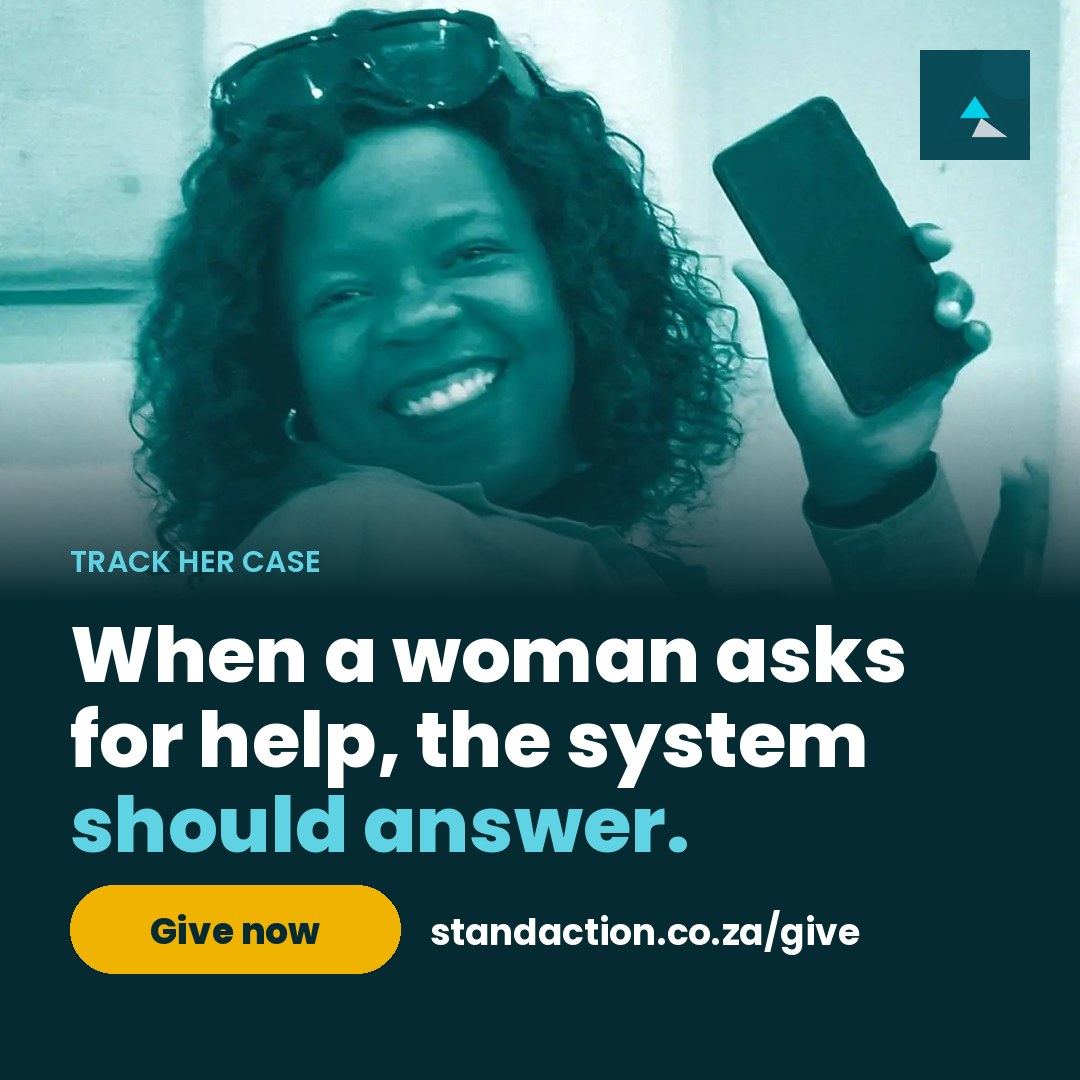
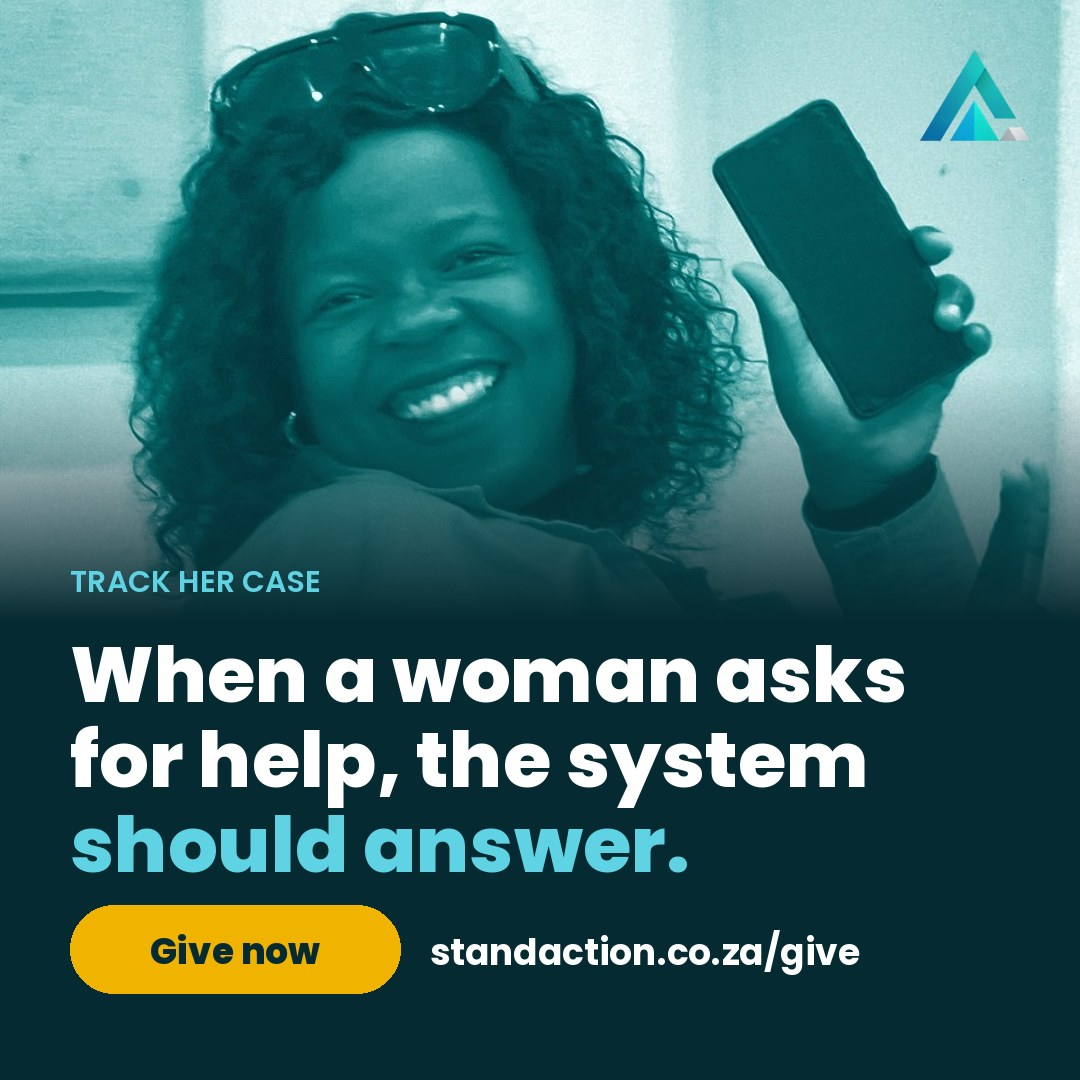
Original ambassador photo, Julie's LinkedIn, HRI publication links
Claude-Session: https://claude.ai/code/session_016iGbTjdTXZU6fLHWU7LUBG

diff --git a/founder.html b/founder.html
@@ -139,7 +139,7 @@
           <li class="reveal"><span class="kicker">Aug 2025 to Aug 2026 · Programme Lead, STAND / DG Murray Trust</span><h3>Breaking the Cycle: gender-based violence (GBV) systems design and the Red Dot Process</h3><p>Designed the Red Dot Process, a seven-stage, privacy-conscious GBV track-and-trace workflow on Overstrand Municipality's Citizen App. The GBV function went live on 24 August 2026; the first incident was dispatched to law enforcement on 27 August. Convened statutory partners through the Western Cape Violence Prevention Unit, which signed off the workflow, and embedded a community layer of 31 trained GBV ambassadors.</p></li>
           <li class="reveal"><span class="kicker">2025 to 2026 · Senior Technical Specialist and Advocacy Lead</span><h3>Pregnancy and Substance Use Toolkit, national advocacy (EJAF / JMD Consulting &amp; Training / SANPUD)</h3><p>Led district-to-national advocacy to position a practical, rights-based clinical toolkit for pregnant women affected by substance use within South African maternal and primary healthcare systems. The work was supported by the Elton John AIDS Foundation (EJAF), with the grant channelled through SANPUD, and delivered with JMD Consulting &amp; Training. Authored the final advocacy report, <em>From Field Evidence to National Endorsement</em>, and secured formal written support from the National Department of Health in June 2026, conditional on defined revisions. The Western Cape confirmed routes to incorporate the content into antenatal and community health-worker training.</p></li>
           <li class="reveal"><span class="kicker">Mar 2025 · Key Facilitator and Technical Consultant</span><h3>INTERPOL Regional Bureau for Southern Africa / SARPCCO</h3><p>Key facilitator at the first regional Gender and Harm Reduction Workshop, convened with SARPCCO (the Southern African Regional Police Chiefs Cooperation Organisation), with representatives from 11 SADC member states. Developed evidence-informed policing modules and co-authored the report setting out ten regional recommendations, recognised with a formal Letter of Appreciation from the Head of the INTERPOL Regional Bureau / SARPCCO Coordination Office.</p></li>
-          <li class="reveal"><span class="kicker">Jul 2025 to Aug 2026 · Consultant and Lead African Consultant</span><h3>Harm Reduction International, Breaking Point and the Divest/Invest series</h3><p>Led the South Africa country rapid assessment of the impact of donor-funding withdrawal (34 key-informant interviews, 128 desk reviews and a national dialogue) and authored <em>Breaking Point: The Impact of US Funding Cuts on Harm Reduction in South Africa</em>. As Lead African Consultant for the Divest/Invest case-study series, authored three published country studies: South Africa (on the Community Oriented Substance Use Programme, COSUP), Mauritius, and Ghana.</p></li>
+          <li class="reveal"><span class="kicker">Jul 2025 to Aug 2026 · Consultant and Lead African Consultant</span><h3>Harm Reduction International, Breaking Point and the Divest/Invest series</h3><p>Led the South Africa country rapid assessment of the impact of donor-funding withdrawal (34 key-informant interviews, 128 desk reviews and a national dialogue) and authored <a href="https://hri.global/publications/breaking-point-the-impact-of-us-funding-cuts-on-harm-reduction-in-south-africa/" target="_blank" rel="noopener"><em>Breaking Point: The Impact of US Funding Cuts on Harm Reduction in South Africa</em></a>. As Lead African Consultant for the Divest/Invest case-study series, authored three published country studies: <a href="https://hri.global/publications/divest-invest-case-study-south-africa-from-punishment-to-public-health/" target="_blank" rel="noopener">South Africa</a> (on the Community Oriented Substance Use Programme, COSUP), <a href="https://hri.global/publications/divest-invest-case-study-mauritius-divest-from-crisis-invest-in-care/" target="_blank" rel="noopener">Mauritius</a>, and <a href="https://hri.global/publications/divest-invest-case-study-ghana-from-criminalisation-to-care-ghana-at-a-crossroads/" target="_blank" rel="noopener">Ghana</a>.</p></li>
         </ol>
       </div>
     </section>

diff --git a/work.html b/work.html
@@ -211,7 +211,7 @@
           <article class="cap reveal" id="writing" aria-labelledby="writing-title">
             <img src="assets/art/icon-notes.svg" alt="" aria-hidden="true">
             <h3 id="writing-title">Policy drafting and technical writing</h3>
-            <p>Technical reports, policy drafts, protocols, proposals and capability statements. Recent outputs include <em>Breaking Point: The Impact of US Funding Cuts on Harm Reduction in South Africa</em>; three published Divest/Invest country studies (South Africa, Mauritius and Ghana); the advocacy report <em>From Field Evidence to National Endorsement</em>, which secured written support from the National Department of Health; and the INTERPOL and SARPCCO report setting out ten regional recommendations.</p>
+            <p>Technical reports, policy drafts, protocols, proposals and capability statements. Recent outputs include <a href="https://hri.global/publications/breaking-point-the-impact-of-us-funding-cuts-on-harm-reduction-in-south-africa/" target="_blank" rel="noopener"><em>Breaking Point: The Impact of US Funding Cuts on Harm Reduction in South Africa</em></a>; three published Divest/Invest country studies (South Africa, Mauritius and Ghana); the advocacy report <em>From Field Evidence to National Endorsement</em>, which secured written support from the National Department of Health; and the INTERPOL and SARPCCO report setting out ten regional recommendations.</p>
           </article>
         </div>
         <div class="split" style="margin-top:clamp(3rem,6vw,5rem)">

diff --git a/board.html b/board.html
@@ -124,7 +124,7 @@
           </div>
         </article>
         <article class="profile" id="julie" aria-labelledby="julie-name">
-          <div class="profile-side"><figure class="photo reveal "><img src="assets/stand/board-julie.jpg" alt="Julie Mac Donnell" loading="lazy" style="object-position:50% 35%"></figure><a class="btn-learn" href="https://www.linkedin.com/in/julie-mac-donnell" target="_blank" rel="noopener">LinkedIn profile <span class="arrow" aria-hidden="true">&rarr;</span></a></div>
+          <div class="profile-side"><figure class="photo reveal "><img src="assets/stand/board-julie.jpg" alt="Julie Mac Donnell" loading="lazy" style="object-position:50% 35%"></figure><a class="btn-learn" href="https://www.linkedin.com/in/julie-mac-donnell-921434a4/" target="_blank" rel="noopener">LinkedIn profile <span class="arrow" aria-hidden="true">&rarr;</span></a></div>
           <div>
             <h2 class="reveal" id="julie-name">Julie Mac Donnell</h2>
             <p class="role reveal">Treasurer · Associated with STAND since 2019</p>

diff --git a/index.html b/index.html
@@ -425,7 +425,7 @@
               <span class="num">02</span>
               <h3>Published research</h3>
               <p>Breaking Point, on the impact of US funding cuts on harm reduction in South Africa, and three Divest/Invest country studies for Harm Reduction International.</p>
-              <a class="btn-learn" href="founder.html">Learn more <span class="arrow" aria-hidden="true">&rarr;</span></a>
+              <a class="btn-learn" href="founder.html#assign-title">Learn more <span class="arrow" aria-hidden="true">&rarr;</span></a>
               <img class="icon" src="assets/art/icon-news-light.svg" alt="" aria-hidden="true" loading="lazy">
             </article>
             <article class="resource-card reveal">

diff --git a/campaign.html b/campaign.html
@@ -39,7 +39,7 @@
           <h1 id="hero-title">When a woman asks for help, <em>the system should answer.</em></h1>
         </div>
         <figure class="hero-photo">
-          <img src="assets/stand/ambassador-smile.jpg" alt="A smiling Track Her Case ambassador holding up her phone" width="1200" height="800" fetchpriority="high">
+          <img src="assets/stand/ambassador-smile.jpg" alt="A smiling Track Her Case ambassador holding up her phone" width="924" height="1155" fetchpriority="high">
           <figcaption>A trained ambassador, ready to log and follow cases on her phone.</figcaption>
         </figure>
         <div class="hero-body">

diff --git a/css/campaign.css b/css/campaign.css
@@ -89,7 +89,7 @@ h3 { font-weight: 700; font-size: 1.2rem; }
 .cta-row { display: flex; flex-wrap: wrap; gap: .75rem; }
 .cta-row .btn { flex: 1 1 11rem; }
 .hero-photo { margin: 1.25rem -1rem 0; position: relative; }
-.hero-photo img { width: 100%; aspect-ratio: 16 / 10; object-fit: cover; object-position: 35% 30%; }
+.hero-photo img { width: 100%; aspect-ratio: 16 / 10; object-fit: cover; object-position: 50% 28%; }
 .hero-photo figcaption { position: absolute; left: 1rem; right: 1rem; bottom: .9rem; font-size: .8rem; color: var(--white); text-shadow: 0 1px 6px rgba(0,0,0,.7); }
 
 /* Sections */

diff --git a/css/pages.css b/css/pages.css
@@ -529,3 +529,5 @@ ol.stages, ol.timeline { list-style: none; margin: 0; padding: 0; }
 
 .snap-badge { display: block; width: min(11rem, 60%); margin: .25rem 0 1rem; }
 .snap-badge img { width: 100%; height: auto; border-radius: .9rem; box-shadow: 0 8px 20px rgba(0,0,0,.18); }
+
+.timeline a, .cap a { color: inherit; text-decoration: underline; text-decoration-thickness: 1px; text-underline-offset: 3px; }

diff --git a/tools/build_pages.py b/tools/build_pages.py
@@ -365,7 +365,7 @@ work = hero(
           <article class="cap reveal" id="writing" aria-labelledby="writing-title">
             <img src="assets/art/icon-notes.svg" alt="" aria-hidden="true">
             <h3 id="writing-title">Policy drafting and technical writing</h3>
-            <p>Technical reports, policy drafts, protocols, proposals and capability statements. Recent outputs include <em>Breaking Point: The Impact of US Funding Cuts on Harm Reduction in South Africa</em>; three published Divest/Invest country studies (South Africa, Mauritius and Ghana); the advocacy report <em>From Field Evidence to National Endorsement</em>, which secured written support from the National Department of Health; and the INTERPOL and SARPCCO report setting out ten regional recommendations.</p>
+            <p>Technical reports, policy drafts, protocols, proposals and capability statements. Recent outputs include <a href="https://hri.global/publications/breaking-point-the-impact-of-us-funding-cuts-on-harm-reduction-in-south-africa/" target="_blank" rel="noopener"><em>Breaking Point: The Impact of US Funding Cuts on Harm Reduction in South Africa</em></a>; three published Divest/Invest country studies (South Africa, Mauritius and Ghana); the advocacy report <em>From Field Evidence to National Endorsement</em>, which secured written support from the National Department of Health; and the INTERPOL and SARPCCO report setting out ten regional recommendations.</p>
           </article>
         </div>
         <div class="split" style="margin-top:clamp(3rem,6vw,5rem)">
@@ -532,7 +532,7 @@ BOARD = [
      [("Current position:", "Executive Director, Students for Sensible Drug Policy International."),
       ("Credentials:", "PhD in Public Law (in progress, expected 2027), University of Cape Town; Honours in Social Development, UCT; BA in Criminology and International Studies, Monash South Africa.")]),
     ("julie", "board-julie.jpg", "Julie Mac Donnell", "Treasurer · Associated with STAND since 2019",
-     "https://www.linkedin.com/in/julie-mac-donnell",
+     "https://www.linkedin.com/in/julie-mac-donnell-921434a4/",
      ["Julie Mac Donnell is a harm-reduction specialist, human-rights consultant, trainer, and project manager with over a decade of frontline and technical experience in South Africa's drug-policy, healthcare, and civil-society sectors.",
       "Her career spans operational harm-reduction delivery, research and training commissioned by the United Nations Office on Drugs and Crime (UNODC) and the United Nations Development Programme (UNDP), national policy advocacy, and international engagement. At TB HIV Care, where she served for a decade, she established drop-in centres, designed programme frameworks for people who use drugs, and delivered training on harm reduction, gender-based violence (GBV), and the health and rights of women affected by substance use. She is the editor and lead for the internationally developed Pregnancy and Substance Use Toolkit for Health Care Workers, and co-authored the published account of SANPUD's COVID-19 emergency response for the International Drug Policy Consortium.",
       "She brings to STAND's governance a grounded, community-tested understanding of what implementation actually requires."],
@@ -636,7 +636,7 @@ founder = hero(
           <li class="reveal"><span class="kicker">Aug 2025 to Aug 2026 · Programme Lead, STAND / DG Murray Trust</span><h3>Breaking the Cycle: gender-based violence (GBV) systems design and the Red Dot Process</h3><p>Designed the Red Dot Process, a seven-stage, privacy-conscious GBV track-and-trace workflow on Overstrand Municipality's Citizen App. The GBV function went live on 24 August 2026; the first incident was dispatched to law enforcement on 27 August. Convened statutory partners through the Western Cape Violence Prevention Unit, which signed off the workflow, and embedded a community layer of 31 trained GBV ambassadors.</p></li>
           <li class="reveal"><span class="kicker">2025 to 2026 · Senior Technical Specialist and Advocacy Lead</span><h3>Pregnancy and Substance Use Toolkit, national advocacy (EJAF / JMD Consulting &amp; Training / SANPUD)</h3><p>Led district-to-national advocacy to position a practical, rights-based clinical toolkit for pregnant women affected by substance use within South African maternal and primary healthcare systems. The work was supported by the Elton John AIDS Foundation (EJAF), with the grant channelled through SANPUD, and delivered with JMD Consulting &amp; Training. Authored the final advocacy report, <em>From Field Evidence to National Endorsement</em>, and secured formal written support from the National Department of Health in June 2026, conditional on defined revisions. The Western Cape confirmed routes to incorporate the content into antenatal and community health-worker training.</p></li>
           <li class="reveal"><span class="kicker">Mar 2025 · Key Facilitator and Technical Consultant</span><h3>INTERPOL Regional Bureau for Southern Africa / SARPCCO</h3><p>Key facilitator at the first regional Gender and Harm Reduction Workshop, convened with SARPCCO (the Southern African Regional Police Chiefs Cooperation Organisation), with representatives from 11 SADC member states. Developed evidence-informed policing modules and co-authored the report setting out ten regional recommendations, recognised with a formal Letter of Appreciation from the Head of the INTERPOL Regional Bureau / SARPCCO Coordination Office.</p></li>
-          <li class="reveal"><span class="kicker">Jul 2025 to Aug 2026 · Consultant and Lead African Consultant</span><h3>Harm Reduction International, Breaking Point and the Divest/Invest series</h3><p>Led the South Africa country rapid assessment of the impact of donor-funding withdrawal (34 key-informant interviews, 128 desk reviews and a national dialogue) and authored <em>Breaking Point: The Impact of US Funding Cuts on Harm Reduction in South Africa</em>. As Lead African Consultant for the Divest/Invest case-study series, authored three published country studies: South Africa (on the Community Oriented Substance Use Programme, COSUP), Mauritius, and Ghana.</p></li>
+          <li class="reveal"><span class="kicker">Jul 2025 to Aug 2026 · Consultant and Lead African Consultant</span><h3>Harm Reduction International, Breaking Point and the Divest/Invest series</h3><p>Led the South Africa country rapid assessment of the impact of donor-funding withdrawal (34 key-informant interviews, 128 desk reviews and a national dialogue) and authored <a href="https://hri.global/publications/breaking-point-the-impact-of-us-funding-cuts-on-harm-reduction-in-south-africa/" target="_blank" rel="noopener"><em>Breaking Point: The Impact of US Funding Cuts on Harm Reduction in South Africa</em></a>. As Lead African Consultant for the Divest/Invest case-study series, authored three published country studies: <a href="https://hri.global/publications/divest-invest-case-study-south-africa-from-punishment-to-public-health/" target="_blank" rel="noopener">South Africa</a> (on the Community Oriented Substance Use Programme, COSUP), <a href="https://hri.global/publications/divest-invest-case-study-mauritius-divest-from-crisis-invest-in-care/" target="_blank" rel="noopener">Mauritius</a>, and <a href="https://hri.global/publications/divest-invest-case-study-ghana-from-criminalisation-to-care-ghana-at-a-crossroads/" target="_blank" rel="noopener">Ghana</a>.</p></li>
         </ol>
       </div>
     </section>

diff --git a/tools/build_campaign.py b/tools/build_campaign.py
@@ -175,7 +175,7 @@ doc = f"""<!doctype html>
           <h1 id="hero-title">When a woman asks for help, <em>the system should answer.</em></h1>
         </div>
         <figure class="hero-photo">
-          <img src="assets/stand/ambassador-smile.jpg" alt="A smiling Track Her Case ambassador holding up her phone" width="1200" height="800" fetchpriority="high">
+          <img src="assets/stand/ambassador-smile.jpg" alt="A smiling Track Her Case ambassador holding up her phone" width="924" height="1155" fetchpriority="high">
           <figcaption>A trained ambassador, ready to log and follow cases on her phone.</figcaption>
         </figure>
         <div class="hero-body">

diff --git a/REMAKE_REPORT.md b/REMAKE_REPORT.md
@@ -1,13 +1,13 @@
 # STAND homepage report (layout from the to-top.ch/en remake, STAND pictures and copy)
 
-Generated: 2026-11-13T10:37:00.550Z
+Generated: 2026-11-13T11:04:52.275Z
 
 | Result | Check | Detail |
 |---|---|---|
 | PASS | Local files referenced by all 9 pages and the CSS exist | 706 references OK |
 | PASS | Every image is from the new STAND sets (generated, STAND photos, new line art) | 99 distinct images, all in assets/gen/, assets/stand/, assets/art/ |
 | PASS | No file in assets/ is a copy of an original TO TOP image | 141 shipped files compared against 110 originals |
-| PASS | Every link between pages lands on an existing page and anchor | 283 internal links OK |
+| PASS | Every link between pages lands on an existing page and anchor | 284 internal links OK |
 | PASS | No TO TOP names, contacts or copy remain (text, alt text, links) | 11 TO TOP terms and 88 original sentences checked |
 | PASS | Every figure on the page appears on standaction.co.za | 11 figures checked: 2025, 2018, 500, 700, 24, 2026, 18, 2, +27 82 554 8831, 930063426, 1 |
 | PASS | 375px: no JS errors or failed local requests | clean |
